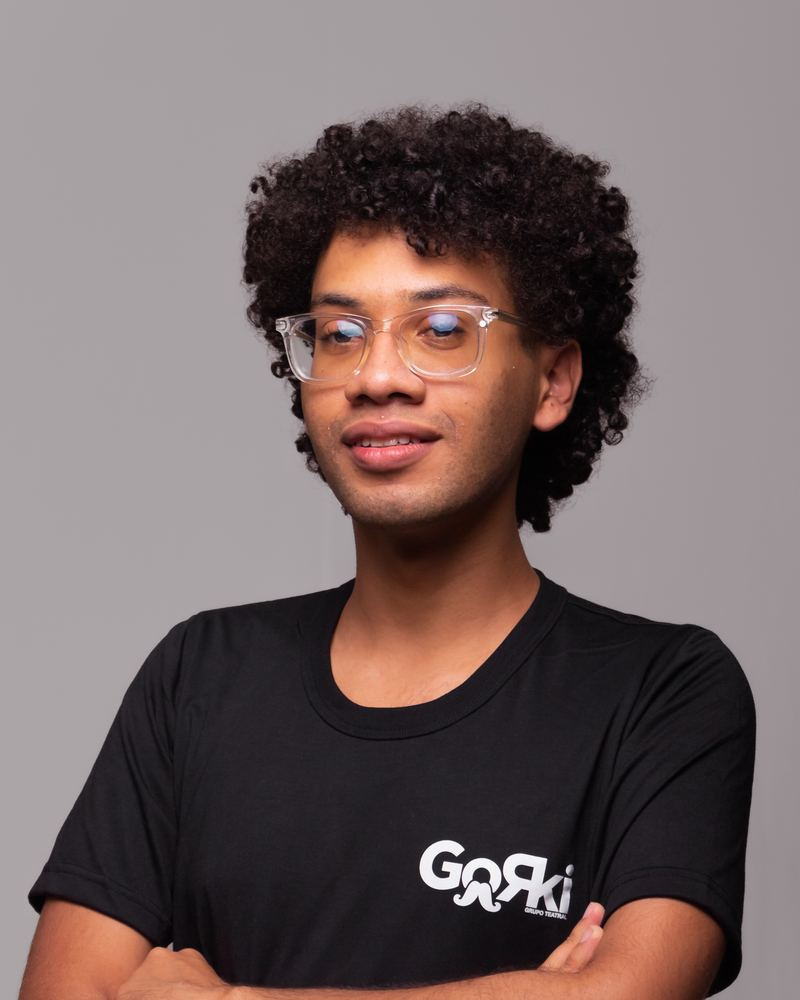
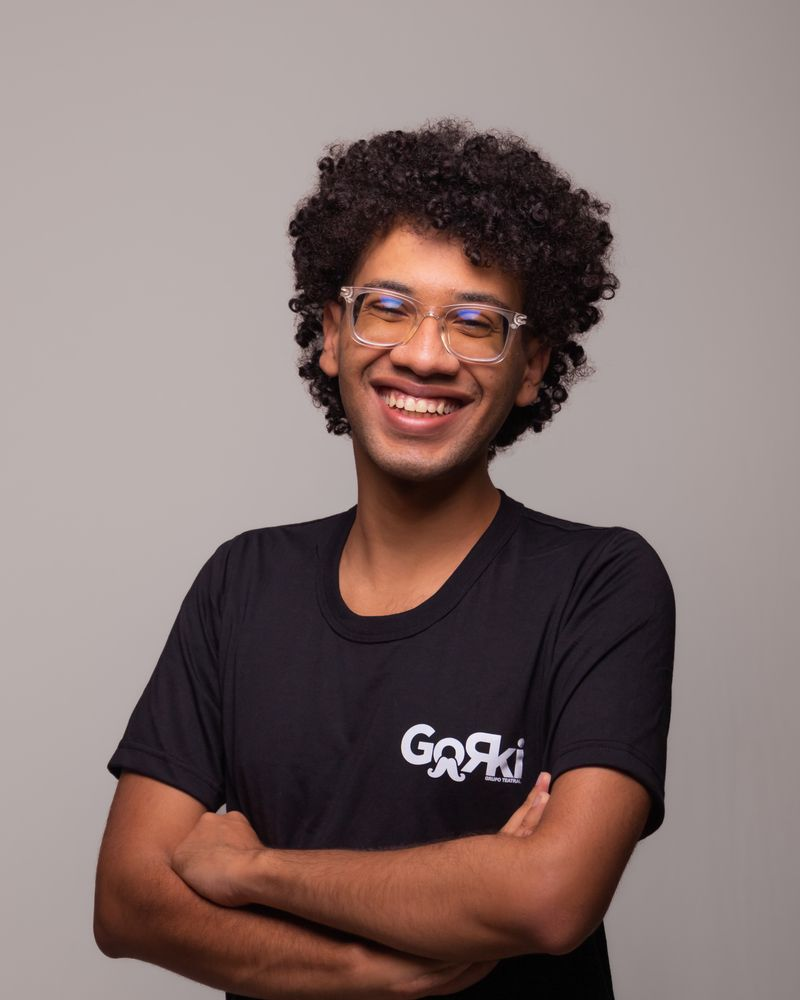
Add files via upload

diff --git a/index.html b/index.html
@@ -219,6 +219,7 @@ p{margin:0}
 .foot .wrap{display:flex;flex-wrap:wrap;gap:24px;align-items:center;justify-content:space-between}
 .foot img{height:34px;width:auto;opacity:.9}
 .foot p{color:var(--muted);font-size:.92rem;max-width:52ch}
+.foot-lines span{display:block}
 
 /* ---------- Currículo (modal) ---------- */
 dialog{border:0;padding:0;max-width:min(980px,calc(100vw - 32px));width:100%;max-height:calc(100dvh - 32px);background:var(--ink);color:var(--fg);border-radius:var(--r);box-shadow:0 30px 80px rgba(0,0,0,.7);overflow-y:auto;overflow-x:hidden;overscroll-behavior:contain;scrollbar-width:thin;scrollbar-color:var(--blood) transparent}
@@ -333,7 +334,7 @@ body.cv-open{overflow:hidden}
     </header>
     <div class="syn">
       <p class="syn-lead">Em uma cidade onde tudo pode ser comprado, personagens à deriva expõem o colapso de um sistema que transforma desejo, prazer e sobrevivência em mercadoria. Inspirado em <i>A Ascensão e Queda da Cidade de Mahagonny</i>, de Bertolt Brecht e Kurt Weill, o espetáculo do Grupo Gorki constrói uma fábula musical atravessada pelo grotesco, pela ruína e pela ironia, em que a canção surge como comentário crítico e ferramenta de enfrentamento. Entre a farsa e o ritual, o sagrado e o profano, Mahagonny revela-se menos como um lugar e mais como uma lógica: um mundo em que tudo tem preço, mas nada tem valor.</p>
-      <figure class="syn-photo"><img src="img/cena-30.jpg" alt="Stefany em cena, com casaco de oncinha, sob luz âmbar" loading="lazy"><figcaption class="credit">Foto de cena: Carlos Arantes</figcaption></figure>
+      <figure class="syn-photo"><img src="img/cena-30.jpg" alt="Stefany em cena, com casaco de oncinha, sob luz âmbar" loading="lazy"><figcaption class="credit">Fotografia de Carlos Arantes</figcaption></figure>
     </div>
 
     <div class="section-title"><h2>A montagem</h2></div>
@@ -443,8 +444,9 @@ body.cv-open{overflow:hidden}
       <p><b>Músicos:</b> Caio Vilela (regência), Eden Santos (piano), Izabela Ito (violoncelo) e Jão (violino).</p>
       <p><b>Concepção Cenográfica:</b> Beatriz Leite. <b>Cenógrafo e Cenotécnico:</b> Eliton Silva (Pita). <b>Concepção de Objetos Cênicos:</b> Ricardo Brabrikovisk e Eliton Silva. <b>Figurino:</b> Felipe Marques. <b>Visagismo:</b> Carol Camillo.</p>
       <p><b>Light Designer e Operação de Luz:</b> Gabriel Ferreira. <b>Operação de Som:</b> João Pedro Mendes.</p>
-      <p><b>Coordenação de Produção:</b> Giovanna Federzoni. <b>Produção Executiva:</b> Rafa Ramirez e Giovanna Federzoni. <b>Assistentes de Produção:</b> Milena Oliveira e Mikael Marceniuk. <b>Design Gráfico:</b> Lívia Azevedo. <b>Fotografia:</b> Danilo César. <b>Fotos de Cena:</b> Carlos Arantes.</p>
+      <p><b>Coordenação de Produção:</b> Giovanna Federzoni. <b>Produção Executiva:</b> Rafa Ramirez e Giovanna Federzoni. <b>Assistentes de Produção:</b> Milena Oliveira e Mikael Marceniuk. <b>Design Gráfico:</b> Lívia Azevedo. <b>Fotografia:</b> Danilo César.</p>
       <p><b>Realização e Produção:</b> Grupo Teatral Gorki. O espetáculo foi contemplado e desenvolvido com o acompanhamento do Programa de Qualificação em Artes (Teatro), realizado pela CULTSP PRO, Escolas de Profissionais da Cultura, sob orientação da artista e pesquisadora Lara Hassum.</p>
+      <span class="credit" style="color:inherit;opacity:.7;text-align:center">Fotografia de Carlos Arantes</span>
     </article>
   </div>
 </section>
@@ -501,7 +503,7 @@ body.cv-open{overflow:hidden}
 <footer class="foot">
   <div class="wrap">
     <img src="img/logo-mahagonny.png" alt="Mahagonny">
-    <p>Programa virtual de Mahagonny · Grupo Teatral Gorki, 2026. Fotos de cena: Carlos Arantes.</p>
+    <p class="foot-lines"><span>Programa virtual de Mahagonny.</span><span>Grupo Teatral Gorki, 2026.</span></p>
     <a class="btn-ticket" href="https://www.grupogorki.com.br/" target="_blank" rel="noopener">Ingressos ↗</a>
   </div>
 </footer>

diff --git a/data.js b/data.js
@@ -304,7 +304,7 @@ window.CREW = [
     { funcao: "Direção Musical e Composição", pessoa: "caio-vilela", img: "caio" },
     { funcao: "Direção de Movimento", pessoa: "nathan-ranhel", img: "nathan" },
     { funcao: "Assistente de Direção", pessoa: "joao-pedro-mendes", img: "joao-pedro" },
-    { funcao: "Orientação de Pesquisa", pessoa: "lara-hassum", img: null }
+    { funcao: "Orientação de Pesquisa", pessoa: "lara-hassum", img: "lara" }
   ]},
   { area: "Músicos", itens: [
     { funcao: "Regência", pessoa: "caio-vilela", img: "caio" },
@@ -330,7 +330,7 @@ window.CREW = [
     { funcao: "Produção Executiva", pessoa: "rafa-ramirez", img: null },
     { funcao: "Assistente de Produção", pessoa: "milena-oliveira", img: "milena" },
     { funcao: "Assistente de Produção", pessoa: "mikael-marceniuk", img: "mikael" },
-    { funcao: "Design Gráfico", pessoa: "livia-azevedo", img: null },
-    { funcao: "Fotografia", pessoa: "danilo-cesar", img: null }
+    { funcao: "Design Gráfico", pessoa: "livia-azevedo", img: "livia" },
+    { funcao: "Fotografia", pessoa: "danilo-cesar", img: "danilo" }
   ]}
 ];

diff --git a/README.md b/README.md
@@ -31,4 +31,7 @@ Cada seção tem um endereço próprio: `#sinopse`, `#elenco`, `#producao`, `#fi
 
 ## Créditos
 
-Fotos de cena: Carlos Arantes. Design gráfico do espetáculo: Lívia Azevedo. Fotografia: Danilo César.
+- Fotografia de Carlos Arantes.
+- Design gráfico do espetáculo: Lívia Azevedo.
+- Fotografia: Danilo César.
+
